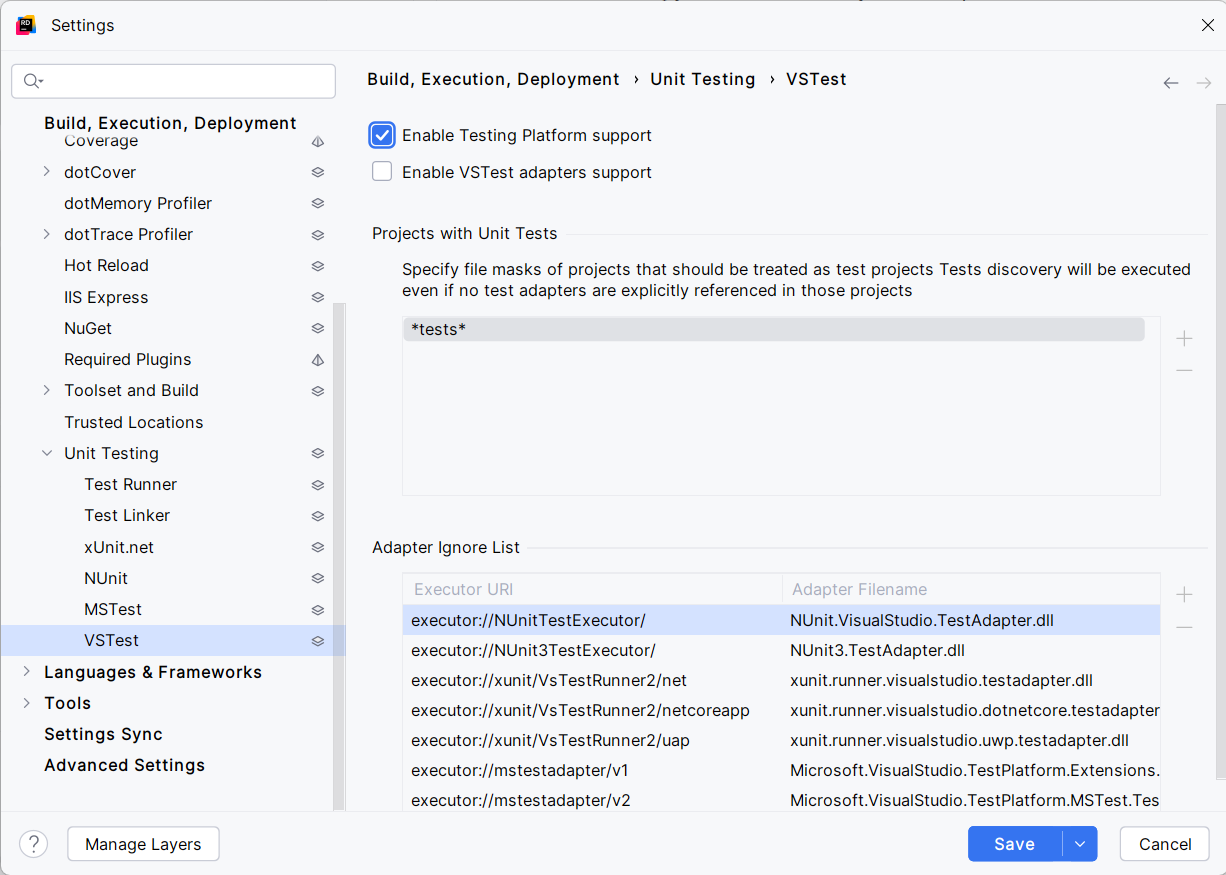
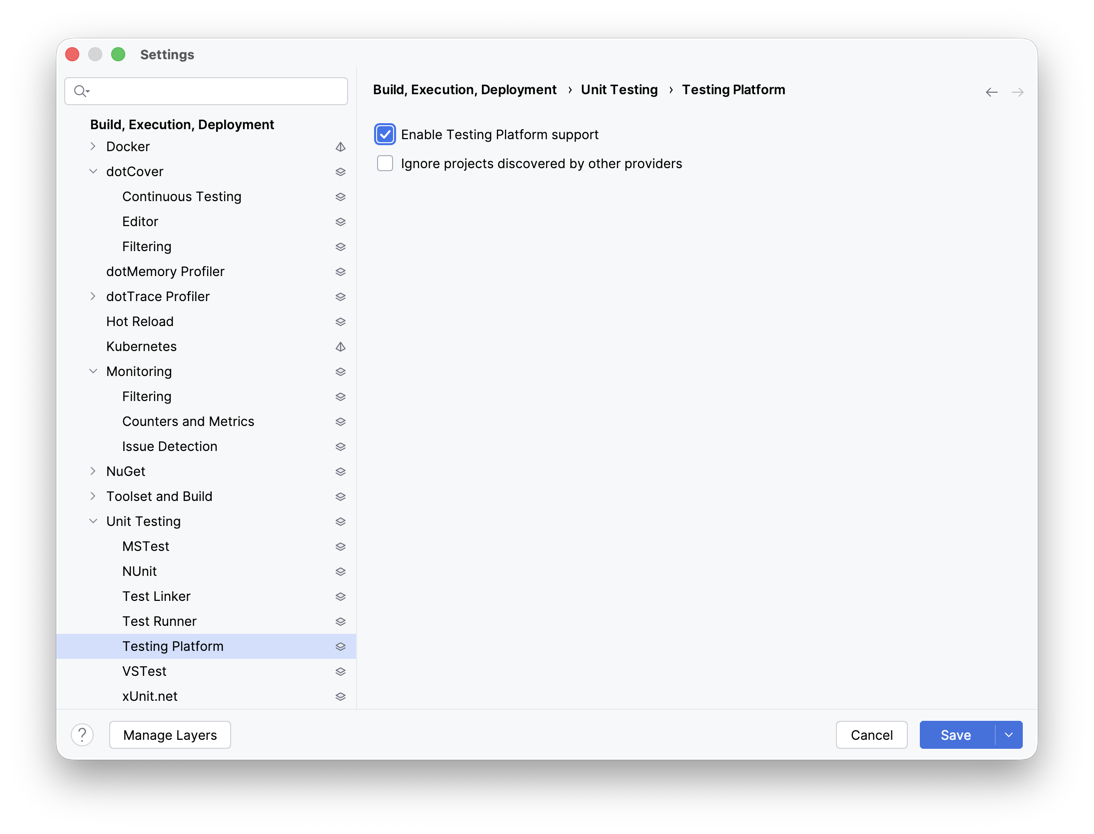
docs: add Rider VSTest conflict troubleshooting (#5989)

Pull request: docs: add Rider VSTest conflict troubleshooting
## Description

Improve Rider IDE setup documentation and add troubleshooting guidance for TUnit test discovery issues caused by VSTest runner conflicts.

**Changes:**
- **`docs/docs/troubleshooting.md`** — Restructured the IDE Setup section into per-IDE subsections (Visual Studio, Rider, VS Code). Added Rider-specific troubleshooting for VSTest project name mask conflicts. 
- **`docs/docs/getting-started/running-your-tests.md`** — Fixed missing quotes around "Enable Testing Platform support" in the Rider section.
- **`docs/static/img/rider.png`** — New screenshot.
- **`rider.png`** (root) — Removed orphan file that was not referenced anywhere in the project.

## Related Issue

Addresses [RIDER-129926](https://youtrack.jetbrains.com/issue/RIDER-129926) — Rider does not discover TUnit tests in projects named *Tests*.

## Type of Change

- [ ] Bug fix (non-breaking change that fixes an issue)
- [ ] New feature (non-breaking change that adds functionality)
- [ ] Breaking change (fix or feature that would cause existing functionality to change)
- [x] Documentation update
- [ ] Performance improvement
- [ ] Refactoring (no functional changes)

## Checklist

### Required

- [x] I have read the [Contributing Guidelines](https://github.com/thomhurst/TUnit/blob/main/.github/CONTRIBUTING.md)
- [ ] If this is a new feature, I started a [discussion](https://github.com/thomhurst/TUnit/discussions) first and received agreement
[…]

diff --git a/docs/docs/troubleshooting.md b/docs/docs/troubleshooting.md
@@ -56,13 +56,29 @@ public async Task MyTest() { }
 
 TUnit requires `Microsoft.Testing.Platform` support to be enabled in your IDE.
 
-**Visual Studio:** Tools > Options > Preview Features > enable "Use testing platform server mode", then restart.
+As a first step, try a clean rebuild of your solution.
 
-**Rider:** Settings > Build, Execution, Deployment > Unit Testing > Testing Platform > enable "Testing Platform support", then restart.
+### Visual Studio
 
-**VS Code:** Install C# Dev Kit, then reload.
+1. Tools > Options > Preview Features > enable "Use testing platform server mode".
+2. Restart IDE.
 
-If tests still don't appear after enabling, try a clean rebuild. In Visual Studio, deleting the `.vs` folder can help.
+If tests are still not discovered, try deleting the `.vs` folder in your solution directory.
+
+### Rider
+
+1. Settings > Build, Execution, Deployment > Unit Testing > Testing Platform > turn on the "Enable Testing Platform support".
+2. Restart IDE.
+
+If tests still don't appear, it may be a conflict with VSTest. You can fix it in two ways:
+1. **Recommended:** Remove all project name masks in Settings > Build, Execution, Deployment > Unit Testing > VSTest > Projects with unit tests.
+2. **Alternative:** Disable "Ignore projects discovered by other test frameworks" in Settings > Build, Execution, Deployment > Unit Testing > Testing Platform.
+
+If none of the above helps, try invalidating caches via File > Invalidate Caches and restart the IDE.
+
+### VS Code
+
+1. Install C# Dev Kit, then reload.
 
 ## Test Filtering
 

diff --git a/docs/docs/getting-started/running-your-tests.md b/docs/docs/getting-started/running-your-tests.md
@@ -74,7 +74,7 @@ Visual Studio is supported. The "Use testing platform server mode" option must b
 ## Rider
 Rider is supported.
 
-The Enable Testing Platform support option must be selected in Settings > Build, Execution, Deployment > Unit Testing > Testing Platform.
+The "Enable Testing Platform support" option must be selected in Settings > Build, Execution, Deployment > Unit Testing > Testing Platform.
 
 ![Rider Settings](../../static/img/rider.png)
 